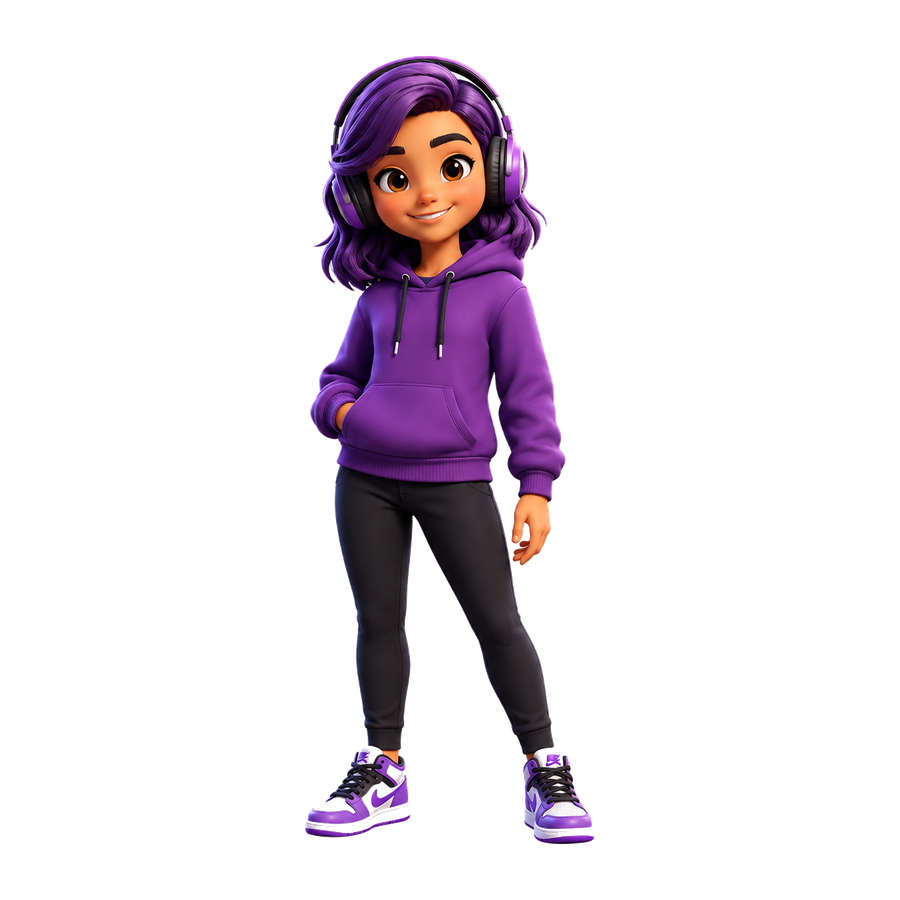
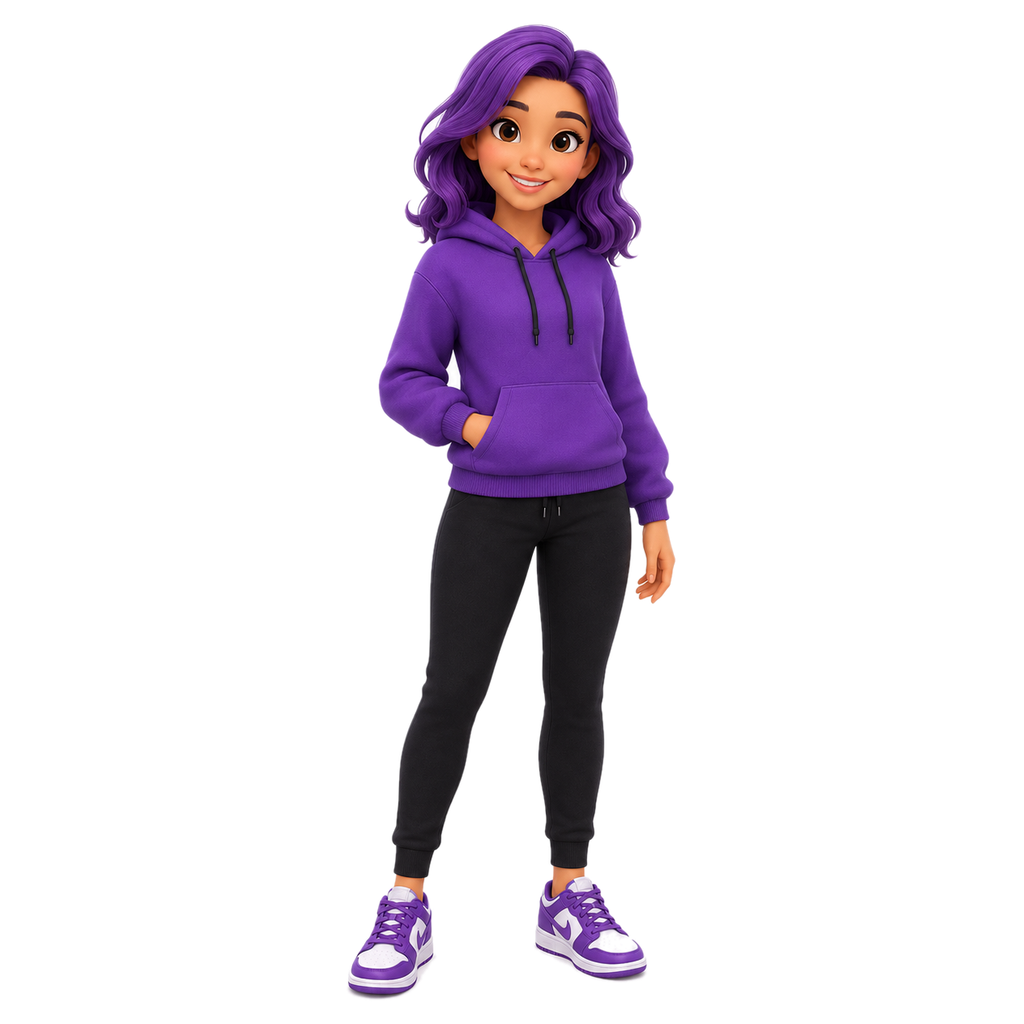
ss

Changed region(s): [[0.3422, 0.0, 0.6844, 0.9956]]

diff --git a/juegos/app.js b/juegos/app.js
@@ -18,16 +18,16 @@ var preloadedAudio = {};
 var currentAvatar = 'avatarcfg:%7B%22base%22%3A%22carlos%22%2C%22outfitColor%22%3A%22%23ef4444%22%2C%22accessory%22%3A%22none%22%7D';
 var availableAvatars = [
     { id: 'carlos',    label: 'Carlos',    gender: 'male',   src: './assets/avatars/carlos.png',    accent: '#ef4444', keyColor: '#cf2029' },
-    { id: 'lucia',     label: 'Lucía',     gender: 'female', src: './assets/avatars/lucia.png',     accent: '#8b5cf6', keyColor: '#6b2ec8' },
+    { id: 'lucia',     label: 'Lucía',     gender: 'female', src: './assets/avatars/lucia.png',     accent: '#8b5cf6', keyColor: '#6b2ec8', variantSrcs: { cap: './assets/avatars/lucia_cap.png', stethoscope: './assets/avatars/lucia_stethoscope.png' } },
     { id: 'mateo',     label: 'Mateo',     gender: 'male',   src: './assets/avatars/mateo.png',     accent: '#1d4ed8', keyColor: '#273866' },
-    { id: 'sofia',     label: 'Sofía',     gender: 'female', src: './assets/avatars/bruno.png',     accent: '#22c55e', keyColor: '#228d35' },
-    { id: 'andres',    label: 'Andrés',    gender: 'male',   src: './assets/avatars/paula.png',     accent: '#ec4899', keyColor: '#ef5ba7' },
+    { id: 'sofia',     label: 'Sofía',     gender: 'female', src: './assets/avatars/sofia.png',     accent: '#22c55e', keyColor: '#228d35' },
+    { id: 'andres',    label: 'Andrés',    gender: 'male',   src: './assets/avatars/andres.png',     accent: '#ec4899', keyColor: '#ef5ba7' },
     { id: 'valentina', label: 'Valentina', gender: 'female', src: './assets/avatars/valentina.png', accent: '#facc15', keyColor: '#dfaf1c' },
     { id: 'diego',     label: 'Diego',     gender: 'male',   src: './assets/avatars/diego.png',     accent: '#06b6d4', keyColor: '#0a9ca8' },
-    { id: 'bruno',     label: 'Bruno',     gender: 'male',   src: './assets/avatars/sofia.png',     accent: '#f97316', keyColor: '#f08414' },
+    { id: 'bruno',     label: 'Bruno',     gender: 'male',   src: './assets/avatars/bruno.png',     accent: '#f97316', keyColor: '#f08414' },
     { id: 'sebastian', label: 'Sebastián', gender: 'male',   src: './assets/avatars/sebastian.png', accent: '#38bdf8', keyColor: '#39a7ee' },
     { id: 'camila',    label: 'Camila',    gender: 'female', src: './assets/avatars/camila.png',    accent: '#c084fc', keyColor: '#b17ae8' },
-    { id: 'paula',     label: 'Paula',     gender: 'female', src: './assets/avatars/andres.png',    accent: '#86efac', keyColor: '#9bd7c9' },
+    { id: 'paula',     label: 'Paula',     gender: 'female', src: './assets/avatars/paula.png',    accent: '#86efac', keyColor: '#9bd7c9' },
     { id: 'emilia',    label: 'Emilia',    gender: 'female', src: './assets/avatars/emilia.png',    accent: '#14b8a6', keyColor: '#09b0b3' }
 ];
 var avatarLegacyPathMap = {
@@ -49,12 +49,9 @@ var avatarColorOptions = [
     { id: 'blanco',    label: 'Blanco',    value: '#f3f4f6' }
 ];
 var avatarAccessoryOptions = [
-    { id: 'none',          label: 'Sin accesorio' },
-    { id: 'cap',           label: 'Gorra' },
-    { id: 'glasses',       label: 'Lentes' },
-    { id: 'sunglasses',    label: 'Lentes negros' },
-    { id: 'headphones',    label: 'Audífonos' },
-    { id: 'stethoscope',   label: 'Estetoscopio' }
+    { id: 'none',          label: 'Solo ropa' },
+    { id: 'cap',           label: 'Con gorra' },
+    { id: 'stethoscope',   label: 'Con estetoscopio' }
 ];
 var avatarFallbackPool = availableAvatars.map(function(item) { return item.id; });
 var avatarFallbackPoolsByGender = {
@@ -136,12 +133,20 @@ function safeHexColor(value, fallback) {
     return fallback || '#6366f1';
 }
 
+function normalizeAvatarAccessory(accessory) {
+    accessory = String(accessory || 'none');
+    for (var i = 0; i < avatarAccessoryOptions.length; i++) {
+        if (avatarAccessoryOptions[i].id === accessory) return accessory;
+    }
+    return 'none';
+}
+
 function ensureAvatarConfig(config, seedName) {
     var def = findAvatarDef(config && (config.base || config.src || config.id), seedName);
     return {
         base: def.id,
         outfitColor: safeHexColor(config && config.outfitColor, def.accent),
-        accessory: (config && config.accessory) || 'none'
+        accessory: normalizeAvatarAccessory(config && config.accessory)
     };
 }
 
@@ -173,7 +178,13 @@ function normalizeAvatarValue(value, seedName) {
 
 function resolveAvatarSrc(value, seedName) {
     var cfg = decodeAvatarConfig(value, seedName);
-    return getAvatarDefById(cfg.base, seedName).src;
+    var def = getAvatarDefById(cfg.base, seedName);
+    return getAvatarVariantSrc(def, cfg.accessory);
+}
+
+function getAvatarVariantSrc(def, accessory) {
+    if (def && def.variantSrcs && def.variantSrcs[accessory]) return def.variantSrcs[accessory];
+    return def.src;
 }
 
 function escapeHtml(value) {
@@ -182,7 +193,7 @@ function escapeHtml(value) {
 
 function accessorySvg(type) {
     if (type === 'cap') {
-        return '<span class="avatar-accessory avatar-accessory-cap" aria-hidden="true"><svg viewBox="0 0 120 80" fill="none"><path d="M20 44c7-18 24-30 44-30 17 0 34 8 46 24-18 4-36 8-54 10-14 2-25 1-36-4z" fill="#111827"/><path d="M16 45c10 5 23 6 38 4 20-3 39-7 55-11 5 5 8 10 9 16-24 7-47 11-68 12-15 1-28-2-39-9 0-5 2-9 5-12z" fill="#1f2937"/></svg></span>';
+        return '<span class="avatar-accessory avatar-accessory-cap" aria-hidden="true"><svg viewBox="0 0 120 80" fill="none"><path d="M19 44c7-18 24-30 45-30 18 0 34 9 46 24-18 4-37 8-55 10-14 2-26 1-36-4z" fill="#ef4444"/><path d="M15 45c10 5 24 6 39 4 20-3 39-7 56-11 5 5 8 10 9 16-24 7-48 11-69 12-15 1-29-2-40-9 0-5 2-9 5-12z" fill="#dc2626"/><path d="M64 17c7 6 11 15 12 27" stroke="#991b1b" stroke-width="5" stroke-linecap="round"/><circle cx="88" cy="30" r="3" fill="#7f1d1d"/></svg></span>';
     }
     if (type === 'glasses') {
         return '<span class="avatar-accessory avatar-accessory-glasses" aria-hidden="true"><svg viewBox="0 0 120 42" fill="none" stroke="#111827" stroke-width="6" stroke-linecap="round" stroke-linejoin="round"><rect x="10" y="10" rx="10" ry="10" width="34" height="22"/><rect x="76" y="10" rx="10" ry="10" width="34" height="22"/><path d="M44 20h32"/><path d="M4 18h6"/><path d="M110 18h6"/></svg></span>';
@@ -203,7 +214,9 @@ function avatarMarkup(value, alt, extraClass) {
     var cfg = decodeAvatarConfig(value, alt);
     var def = getAvatarDefById(cfg.base, alt);
     var cls = extraClass || 'avatar-media';
-    return '<span class="avatar-render ' + cls + '" data-avatar-src="' + escapeHtml(def.src) + '" data-avatar-color="' + escapeHtml(cfg.outfitColor) + '" data-avatar-accessory="' + escapeHtml(cfg.accessory) + '" data-avatar-key-color="' + escapeHtml(def.keyColor || def.accent) + '"><img src="' + escapeHtml(def.src) + '" alt="' + escapeHtml(alt || 'Avatar') + '" class="avatar-render-base ' + cls + '">' + accessorySvg(cfg.accessory) + '</span>';
+    var renderSrc = getAvatarVariantSrc(def, cfg.accessory);
+    var builtInAccessory = renderSrc !== def.src;
+    return '<span class="avatar-render ' + cls + '" data-avatar-src="' + escapeHtml(renderSrc) + '" data-avatar-color="' + escapeHtml(cfg.outfitColor) + '" data-avatar-accessory="' + escapeHtml(cfg.accessory) + '" data-avatar-key-color="' + escapeHtml(def.keyColor || def.accent) + '"><img src="' + escapeHtml(renderSrc) + '" alt="' + escapeHtml(alt || 'Avatar') + '" class="avatar-render-base ' + cls + '">' + (builtInAccessory ? '' : accessorySvg(cfg.accessory)) + '</span>';
 }
 
 function scheduleAvatarHydration(root) {
@@ -459,7 +472,7 @@ window.chooseAvatarColor = function(color) {
 
 window.chooseAvatarAccessory = function(accessory) {
     if (!avatarDraftConfig) avatarDraftConfig = decodeAvatarConfig(currentAvatar, 'avatar');
-    avatarDraftConfig.accessory = accessory || 'none';
+    avatarDraftConfig.accessory = normalizeAvatarAccessory(accessory);
     renderAvatarModal();
 };
 

diff --git a/juegos/styles.css b/juegos/styles.css
@@ -4536,8 +4536,8 @@ body.quiz-focus-mode #quiz-container {
   grid-template-columns: 132px 1fr;
   gap: 16px;
   align-items: center;
-  background: linear-gradient(135deg, rgba(37,99,235,.10), rgba(14,165,233,.04));
-  border: 1px solid rgba(59,130,246,.18);
+  background: linear-gradient(135deg, rgba(15,23,42,.94), rgba(30,41,59,.88));
+  border: 1px solid rgba(96,165,250,.24);
   border-radius: 22px;
   padding: 16px;
   margin-bottom: 18px;
@@ -4546,8 +4546,10 @@ body.quiz-focus-mode #quiz-container {
   width: 132px;
   height: 132px;
   border-radius: 18px;
-  background: linear-gradient(180deg, rgba(255,255,255,.85), rgba(241,245,249,.55));
-  box-shadow: inset 0 0 0 1px rgba(255,255,255,.45), 0 10px 28px rgba(37,99,235,.12);
+  background:
+    radial-gradient(circle at 35% 18%, rgba(255,255,255,.28), rgba(255,255,255,0) 34%),
+    linear-gradient(160deg, rgba(37,99,235,.96), rgba(15,23,42,.98));
+  box-shadow: inset 0 0 0 1px rgba(255,255,255,.16), 0 10px 28px rgba(15,23,42,.28);
   overflow: hidden;
   display: flex;
   align-items: center;
@@ -4585,7 +4587,7 @@ body.quiz-focus-mode #quiz-container {
 }
 .avatar-modal-card {
   border: 1px solid rgba(148,163,184,.28);
-  background: linear-gradient(180deg, rgba(255,255,255,.98), rgba(248,250,252,.96));
+  background: linear-gradient(180deg, rgba(15,23,42,.92), rgba(30,41,59,.86));
   border-radius: 16px;
   padding: 10px;
   text-align: center;
@@ -4603,7 +4605,10 @@ body.quiz-focus-mode #quiz-container {
   width: 100%;
   aspect-ratio: 1/1;
   border-radius: 14px;
-  background: radial-gradient(circle at 30% 20%, rgba(255,255,255,.95), rgba(255,255,255,.65)), linear-gradient(180deg, rgba(255,255,255,.22), rgba(255,255,255,.04)), var(--avatar-accent, #7c3aed);
+  background:
+    radial-gradient(circle at 30% 18%, rgba(255,255,255,.28), rgba(255,255,255,0) 34%),
+    linear-gradient(160deg, var(--avatar-accent, #7c3aed), rgba(15,23,42,.98));
+  box-shadow: inset 0 1px 0 rgba(255,255,255,.18), 0 10px 20px rgba(0,0,0,.28);
   align-items: center;
   justify-content: center;
   overflow: hidden;
@@ -4617,7 +4622,7 @@ body.quiz-focus-mode #quiz-container {
   display: block;
   margin-top: 8px;
   font-size: .76rem;
-  color: var(--text);
+  color: #f8fafc;
   font-weight: 700;
 }
 .avatar-color-options {
@@ -4628,21 +4633,21 @@ body.quiz-focus-mode #quiz-container {
 .avatar-color-chip,
 .avatar-accessory-chip {
   border: 1px solid rgba(148,163,184,.28);
-  background: #fff;
+  background: rgba(15,23,42,.78);
   border-radius: 14px;
   padding: 10px 12px;
   display: flex;
   align-items: center;
   gap: 10px;
   cursor: pointer;
-  color: var(--text);
+  color: #f8fafc;
   font-weight: 700;
 }
 .avatar-color-chip.selected,
 .avatar-accessory-chip.selected {
-  border-color: rgba(37,99,235,.45);
-  box-shadow: 0 8px 24px rgba(37,99,235,.10);
-  background: #eff6ff;
+  border-color: rgba(96,165,250,.64);
+  box-shadow: 0 8px 24px rgba(37,99,235,.22);
+  background: linear-gradient(135deg, rgba(37,99,235,.84), rgba(14,165,233,.56));
 }
 .avatar-color-dot {
   width: 18px;

diff --git a/juegos/index.html b/juegos/index.html
@@ -650,7 +650,7 @@
     <div class="avatar-editor-head">
       <div>
         <h2 style="font-size:1.4rem;font-weight:800;margin-bottom:8px">Personaliza tu avatar</h2>
-        <p style="font-size:.9rem;color:var(--text-mid)">Elige personaje, color de ropa y accesorios</p>
+        <p style="font-size:.9rem;color:var(--text-mid)">Elige personaje y variacion: solo ropa, gorra o estetoscopio</p>
       </div>
       <button type="button" class="avatar-modal-close" onclick="closeAvatarModal()"><i class="fas fa-times"></i></button>
     </div>
@@ -674,7 +674,7 @@
     </div>
 
     <div class="avatar-editor-section">
-      <h3>3. Accesorios</h3>
+      <h3>3. Variacion</h3>
       <div id="avatar-accessory-options" class="avatar-accessory-options"></div>
     </div>
 
